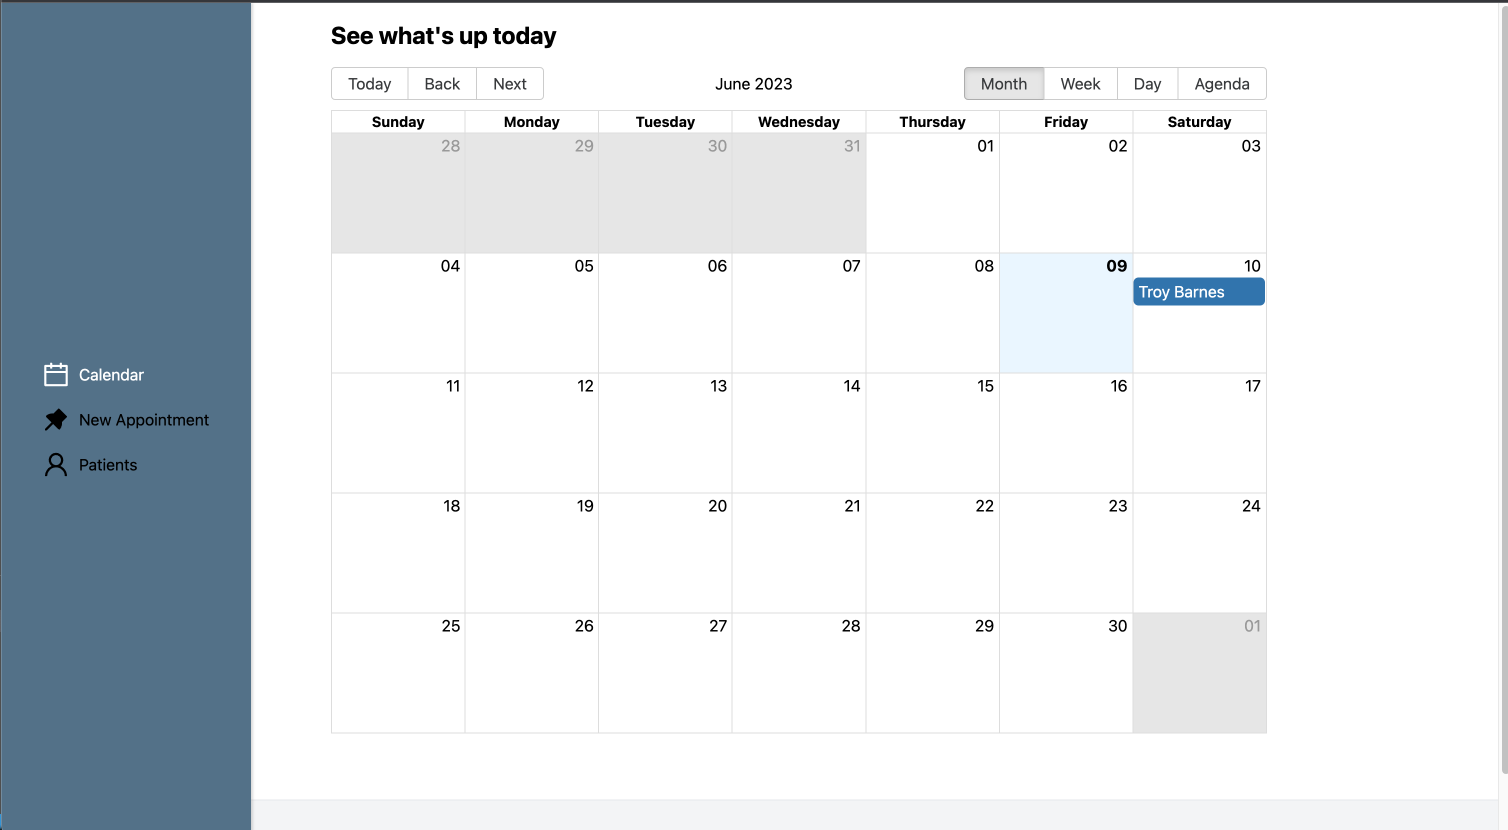
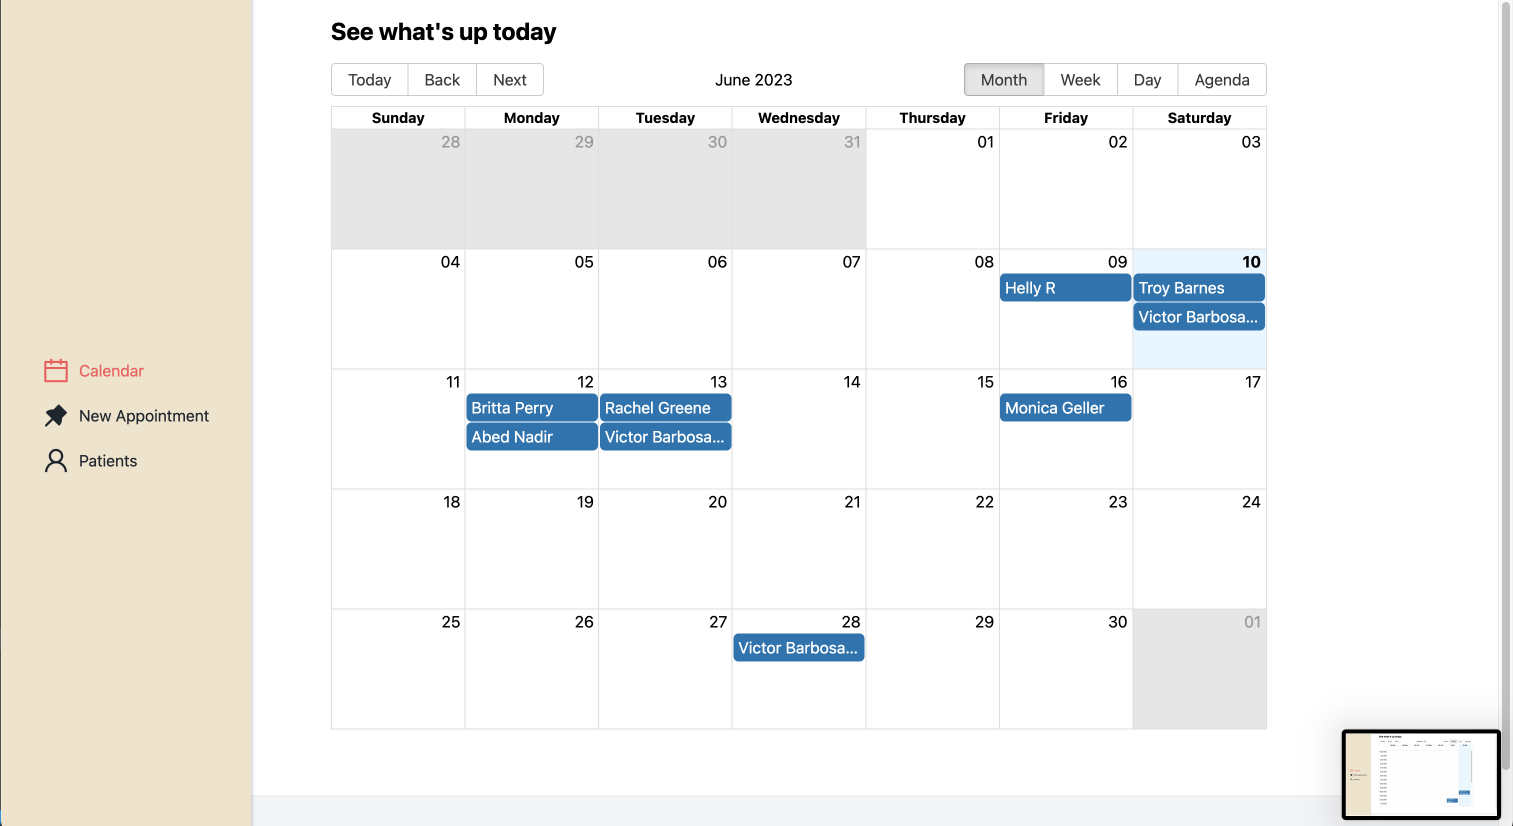
resolves 4-update-patient-entry-if-new-contact-information-is-added-in-the-form

diff --git a/src/layout/SideMenu.tsx b/src/layout/SideMenu.tsx
@@ -8,21 +8,21 @@ function SideMenu() {
         <nav className={style.nav}>
             <ul className={style.ul}>
                 <li className="pl-10">
-                    <NavLink to={'calendar'} className={({isActive}) => isActive ? "text-white" : ""}> 
+                    <NavLink to={'calendar'} className={({isActive}) => isActive ? "nav-active" : "nav-inactive"}> 
                         <span className="flex items-center gap-x-2">
                             <AiOutlineCalendar size={30} /> Calendar
                         </span>
                     </NavLink>
                 </li>
                 <li className="pl-10">
-                    <NavLink to={'new-appointment'} className={({isActive}) => isActive ? "text-white" : ""}>
+                    <NavLink to={'new-appointment'} className={({isActive}) => isActive ? "nav-active" : "nav-inactive"}>
                         <span className="flex items-center gap-x-2">
                             <AiFillPushpin size={30} /> New Appointment
                         </span>
                     </NavLink>
                 </li>
                 <li className="pl-10">
-                    <NavLink to={'patients'} className={({isActive}) => isActive ? "text-white" : ""}>
+                    <NavLink to={'patients'} className={({isActive}) => isActive ? "nav-active" : "nav-inactive"}>
                         <span className="flex items-center gap-x-2">
                             <AiOutlineUser size={30} /> Patients
                         </span>

diff --git a/src/appointments/appointmentsSlice.ts b/src/appointments/appointmentsSlice.ts
@@ -1,7 +1,10 @@
 import { createSlice, PayloadAction, createAsyncThunk, nanoid } from '@reduxjs/toolkit'
 import { RootState } from '../app/store'
 import { IAppointment } from '../interfaces/IAppointment'
+import { IPatient } from '../interfaces/IPatient'
 import { getAppointments, postAppointment } from '../services/appointments'
+import { createNewPatient } from '../services/patients'
+import { getRandomPastelColor } from '../utils/utils'
 
 interface AppointmentState {
   appointments: IAppointment[],
@@ -18,9 +21,28 @@ const initialState: AppointmentState = {
 export const addNewAppointment = createAsyncThunk(
   'appointments/addNewAppointment',
   async (appointment: IAppointment) => {
-    appointment.id = nanoid()
-    const response = await postAppointment(appointment)
-    return response.data
+    // check if patient is new
+    if (!appointment.patientId) {
+      appointment.patientId = nanoid();
+      const {patientId, name, email, phoneNumber} = appointment;
+      const patient: IPatient = {
+        id: patientId,
+        name,
+        email,
+        phone: phoneNumber,
+        iconColor: getRandomPastelColor()
+      } 
+      return await createNewPatient(patient)
+        .then(async () => {
+          appointment.id = nanoid()
+          const response = await postAppointment(appointment)
+          return response.data
+        })
+    } else {
+      appointment.id = nanoid()
+      const response = await postAppointment(appointment)
+      return response.data
+    }
   }
 )
 

diff --git a/src/utils/utils.ts b/src/utils/utils.ts
@@ -1,0 +1,33 @@
+export function getRandomPastelColor(): string { // Generated by ChatGPT
+  const hue = Math.floor(Math.random() * 360); // Random hue value between 0 and 359
+  const saturation = Math.floor(Math.random() * 30) + 70; // Random saturation value between 70 and 100
+  const lightness = Math.floor(Math.random() * 10) + 60; // Random lightness value between 60 and 70
+  
+  // Convert HSL values to RGB
+  const hslToRgb = (h: number, s: number, l: number) => {
+    const c = (1 - Math.abs(2 * l - 1)) * s;
+    const x = c * (1 - Math.abs(((h / 60) % 2) - 1));
+    const m = l - c / 2;
+    let r = 0, g = 0, b = 0;
+    
+    if (0 <= h && h < 60) {
+      r = c; g = x; b = 0;
+    } else if (60 <= h && h < 120) {
+      r = x; g = c; b = 0;
+    } else if (120 <= h && h < 180) {
+      r = 0; g = c; b = x;
+    } else if (180 <= h && h < 240) {
+      r = 0; g = x; b = c;
+    } else if (240 <= h && h < 300) {
+      r = x; g = 0; b = c;
+    } else if (300 <= h && h < 360) {
+      r = c; g = 0; b = x;
+    }
+    
+    const rgb = [(r + m) * 255, (g + m) * 255, (b + m) * 255];
+    return rgb.map((value) => Math.round(value).toString(16).padStart(2, '0')).join('');
+  };
+  
+  const hexColor = hslToRgb(hue, saturation / 100, lightness / 100);
+  return `#${hexColor}`;
+}

diff --git a/src/appointments/components/DatePickerField.tsx b/src/appointments/components/DatePickerField.tsx
@@ -1,4 +1,4 @@
-import { FieldHookConfig, FormikContextType, useField, useFormikContext } from "formik";
+import { FieldHookConfig, useField, useFormikContext } from "formik";
 import { useEffect, useState } from "react";
 import { DayPicker } from "react-day-picker";
 import { AppointmentHour } from "../../components/styled/AppointmentHour";
@@ -21,7 +21,6 @@ const css = `
 `
 
 export function DatePickerField(props: FieldHookConfig<string>) {
-  // console.log(" DAte field")
   const dispatch = useAppDispatch();
 
   const appointmentsCreated = useAppSelector(selectAllAppointments);
@@ -113,7 +112,7 @@ export function DatePickerField(props: FieldHookConfig<string>) {
         modifiersClassNames={{
           selected: 'my-selected'
         }}
-        footer={footer}
+        // footer={footer}
       />
 
       {/* select time */}

diff --git a/src/services/patients.ts b/src/services/patients.ts
@@ -1,5 +1,6 @@
 import axios from "axios";
 import { matchSorter } from "match-sorter";
+import { IPatient } from "../interfaces/IPatient";
 
 export async function getPatients() {
     const res = await axios.get('http://localhost:3000/patients');
@@ -9,4 +10,9 @@ export async function getPatients() {
 export async function queryPatients(params : string) {
     const patients = await getPatients();
     return params ? matchSorter(patients, params, { keys: ['name'] }) : [];
+}
+
+export async function createNewPatient(patient: IPatient) {
+    const res = await axios.post('http://localhost:3000/patients', patient);
+    return res.data;
 }

diff --git a/src/patients/PatientCard.module.css b/src/patients/PatientCard.module.css
@@ -5,6 +5,7 @@
     column-gap: 10px;
     box-shadow: rgba(50, 50, 93, 0.25) 0px 2px 5px -1px, rgba(0, 0, 0, 0.3) 0px 1px 3px -1px;
     cursor: pointer;
+    flex-shrink: 0;
 }
 
 .patientIcon {
@@ -22,13 +23,21 @@
 }
 
 .name {
-    font-size: 20px;
+    font-size: 16px;
     font-weight: 500;
-    flex: 1;
     white-space: nowrap;
 }
 
 .infoContainer {
     display: flex;
     flex-direction: column;
+    text-overflow: ellipsis;
+    white-space: nowrap;
+    overflow: hidden;
+    width: 200px;
+}
+
+.infoContainer p {
+    text-overflow: ellipsis;
+    overflow: hidden;
 }

diff --git a/src/calendar/CalendarComponent.tsx b/src/calendar/CalendarComponent.tsx
@@ -2,7 +2,7 @@
  * starting code from https://github.com/christopher-caldwell/react-big-calendar-demo.
  */
 import { FC, useEffect } from 'react'
-import { Calendar, dateFnsLocalizer, Event } from 'react-big-calendar'
+import { Calendar, dateFnsLocalizer } from 'react-big-calendar'
 import withDragAndDrop, { withDragAndDropProps } from 'react-big-calendar/lib/addons/dragAndDrop'
 import format from 'date-fns/format'
 import parse from 'date-fns/parse'

diff --git a/index.html b/index.html
@@ -4,7 +4,7 @@
     <meta charset="UTF-8" />
     <link rel="icon" type="image/svg+xml" href="/vite.svg" />
     <meta name="viewport" content="width=device-width, initial-scale=1.0" />
-    <title>Vite + React + TS</title>
+    <title>Clinic Mate</title>
   </head>
   <body>
     <div id="root"></div>

diff --git a/src/layout/SideMenu.module.css b/src/layout/SideMenu.module.css
@@ -2,7 +2,7 @@
   position: sticky;
   top: 0;
   left: 0;
-  background-color: #537188;
+  background-color: #EEE3CB;
   min-width: 250px;
   height: 100vh;
   display: flex;
@@ -18,5 +18,5 @@
   display: flex;
   flex-direction: column;
   row-gap: 15px;
-  color: #000;
+  color: #EEE3CB;
 }

diff --git a/src/patients/PatientCard.tsx b/src/patients/PatientCard.tsx
@@ -17,7 +17,7 @@ export function PatientCard({patient, onSelecting}: { patient: Patient, onSelect
             .join('')
             .toUpperCase();
 
-        return initials;
+        return initials[0] + initials[initials.length - 1];
     }
 
     const handleSeleting = () => {

diff --git a/src/patients/PatientsPage.tsx b/src/patients/PatientsPage.tsx
@@ -16,7 +16,7 @@ function PatientsPage() {
 
     return (
         <div className="section-wrapper">
-            <PageHeader title="Patients Page" />
+            <PageHeader title="Patients" />
 
             <div className="main">
                 <ListContainer>

diff --git a/src/interfaces/IPatient.ts b/src/interfaces/IPatient.ts
@@ -1,7 +1,7 @@
 export interface IPatient {
     id: string,
     name: string,
-    email: string,
-    phone: string,
+    email: string | undefined,
+    phone: string | undefined,
     iconColor: string
 }
